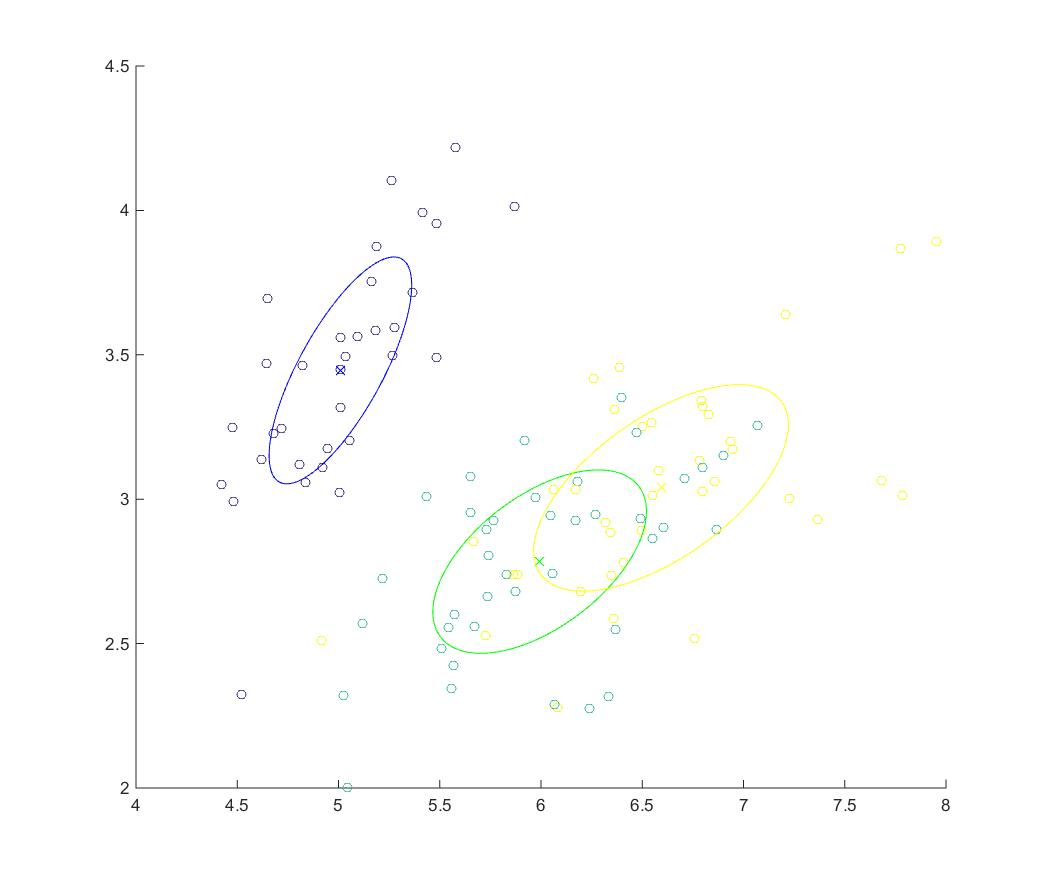
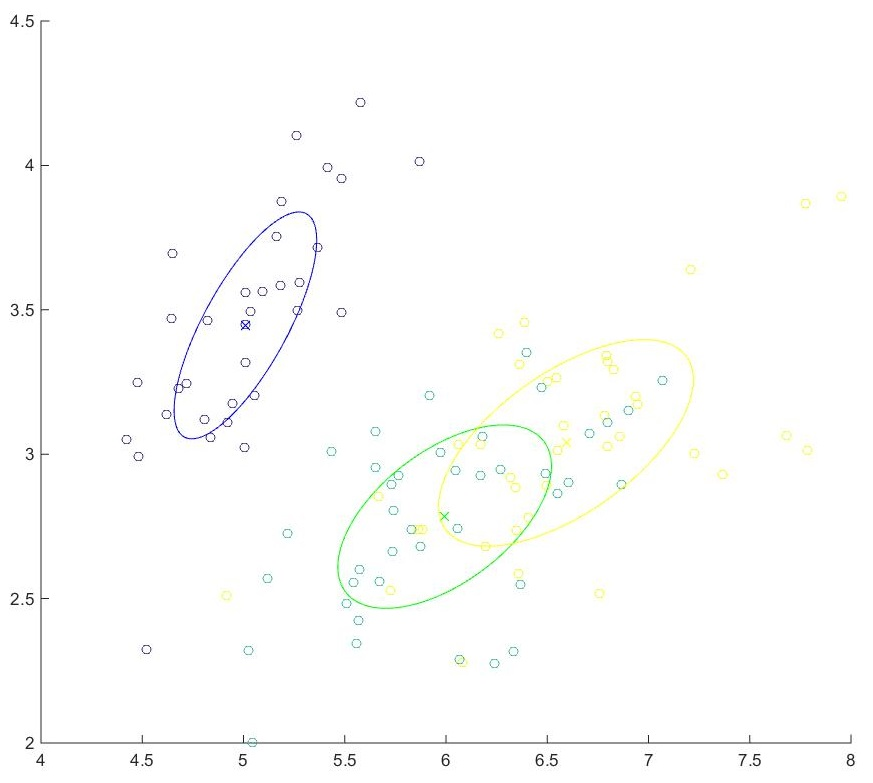
did more of prob 4 write-up

diff --git a/Homework1/HW1WriteUp/HW1_solution.tex b/Homework1/HW1WriteUp/HW1_solution.tex
@@ -528,6 +528,45 @@ The contours of the Gaussian plot are shown below\\
 \caption{Scatter Plot of features and class labels with contours for Gaussian}
 \end{figure}
 
+\newpage
+
+\subsection*{Problem 4, Part d code}
+
+Here is the plot of the boundaries and contours of the Gaussian classifier
+
+\begin{figure}[H]
+\centering
+\includegraphics[width=\columnwidth]{prob4dPlot.jpg}
+\caption{Scatter Plot of features and class labels with boundaries of Gaussian classifier}
+\end{figure}
+
+\newpage
+
+\subsection*{Problem 4, Part b,c,d code}
+
+Here is the code to make the plots for part b,c,and d
+\begin{verbatim}
+%%
+%Part B
+size = 30;
+figure
+scatter(XtrFirstTwo(:,1),XtrFirstTwo(:,2),size,Ytr);
+
+%Part C
+figure
+hold on
+scatter(XtrFirstTwo(:,1),XtrFirstTwo(:,2),size,Ytr);
+plotGauss2D(XtrMeanClass0,XtrCovClass0,'b-');
+plotGauss2D(XtrMeanClass1,XtrCovClass1,'g-');
+plotGauss2D(XtrMeanClass2,XtrCovClass2,'y-');
+hold off
+
+%Part D
+bc = gaussBayesClassify( XtrFirstTwo, Ytr );
+figure
+plotClassify2D(bc, XtrFirstTwo, Ytr);
+\end{verbatim}
+
 \end{document}
 
 
